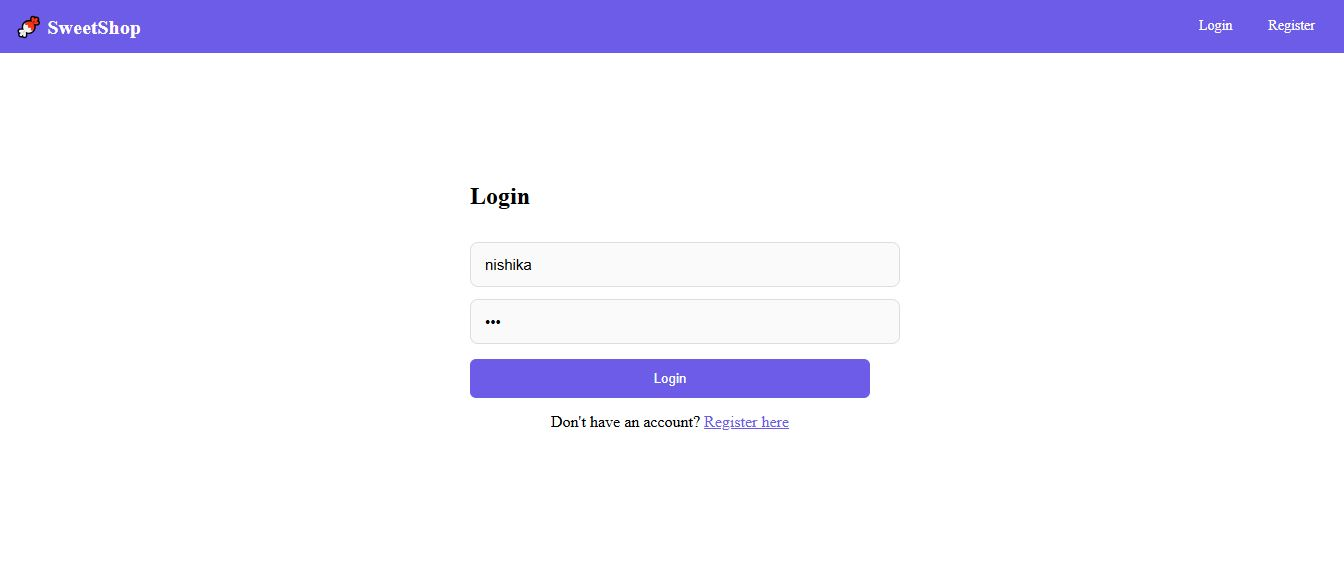
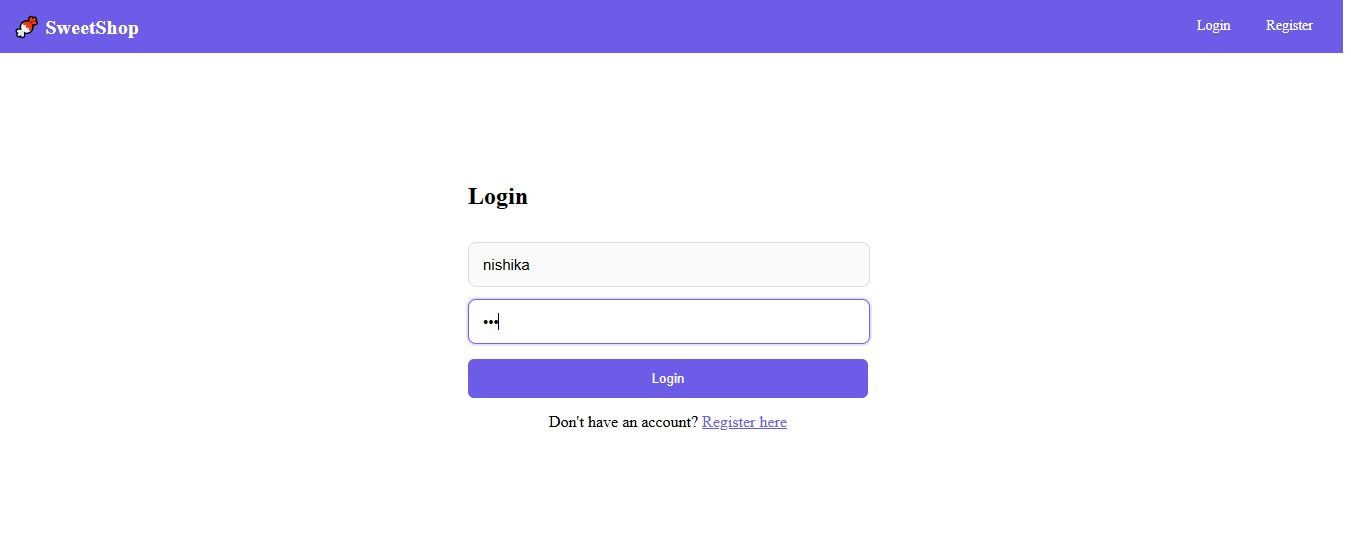
updated assets folder

diff --git a/src/app/pages/register/register.component.ts b/src/app/pages/register/register.component.ts
@@ -14,23 +14,33 @@ export class RegisterComponent {
 
   constructor(private auth: AuthService, private router: Router) {}
 
-  register() {
-    this.auth.register({
-  username: this.username,
-  password: this.password
-}).subscribe(() => {
-  this.auth.login({ username: this.username, password: this.password }).subscribe((res: any) => {
-    this.auth.saveToken(res.access_token);
-    localStorage.setItem('username', this.username);
-    localStorage.setItem('is_admin', res.is_admin.toString());
+register() {
+  this.auth.register({
+    username: this.username,
+    password: this.password
+  }).subscribe({
+    next: () => {
+      this.auth.login({ username: this.username, password: this.password }).subscribe({
+        next: (res: any) => {
+          this.auth.saveToken(res.access_token);
+          localStorage.setItem('username', this.username);
+          localStorage.setItem('is_admin', res.is_admin.toString());
 
-    if (res.is_admin === 1) {
-      this.router.navigate(['/admin']);
-    } else {
-      this.router.navigate(['/dashboard']);
+          if (res.is_admin === 1) {
+            this.router.navigate(['/admin']);
+          } else {
+            this.router.navigate(['/dashboard']);
+          }
+        },
+        error: (err) => {
+          alert(err.error.detail || 'Login failed after registration');
+        }
+      });
+    },
+    error: (err) => {
+      alert(err.error.detail || 'Registration failed: User may already exist');
     }
   });
-});
+}
 
-  }
 }

diff --git a/src/app/pages/login/login.component.ts b/src/app/pages/login/login.component.ts
@@ -13,20 +13,26 @@ export class LoginComponent {
   password = '';
 
   constructor(private auth: AuthService, private router: Router) {}
+  
+login() {
+  this.auth.login({ username: this.username, password: this.password })
+    .subscribe({
+      next: (res: any) => {
+        this.auth.saveToken(res.access_token);
+        this.auth.setUser(this.username, res.is_admin === 1);
 
-  login() {
-        this.auth.login({ username: this.username, password: this.password })
-  .subscribe((res: any) => {
-    this.auth.saveToken(res.access_token);
-    this.auth.setUser(this.username, res.is_admin === 1);
+        if (res.is_admin === 1) {
+          this.router.navigate(['/admin']);
+        } else {
+          this.router.navigate(['/dashboard']);
+        }
+      },
+      error: (err) => {
+        alert(err.error.detail || 'Login failed: Invalid credentials');
+      }
+    });
+};
 
-    if (res.is_admin === 1) {
-      this.router.navigate(['/admin']);
-    } else {
-      this.router.navigate(['/dashboard']);
-    }
-  });
-  };
 
 
 

diff --git a/src/app/pages/login/login.component.css b/src/app/pages/login/login.component.css
@@ -26,7 +26,7 @@ button {
 }
 
 input {
-  width: 100%;
+  width: 93%;
   padding: 13px 14px;
   margin-top: 12px;
   border-radius: 8px;

diff --git a/src/app/pages/register/register.component.css b/src/app/pages/register/register.component.css
@@ -26,7 +26,7 @@ button {
 }
 
 input {
-  width: 100%;
+  width: 93%;
   padding: 13px 14px;
   margin-top: 12px;
   border-radius: 8px;
